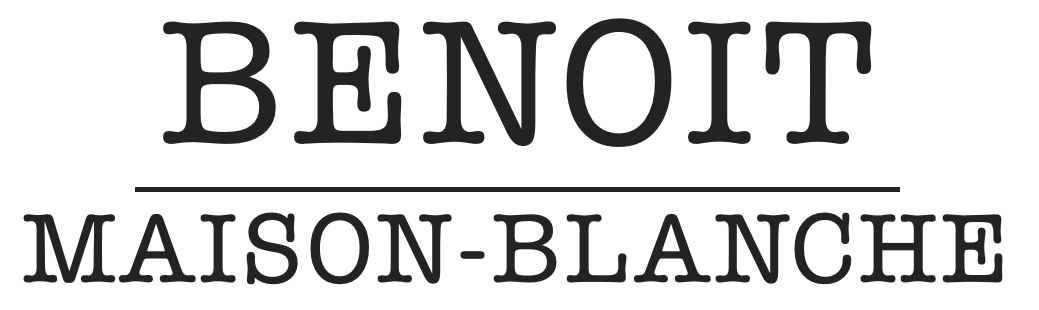
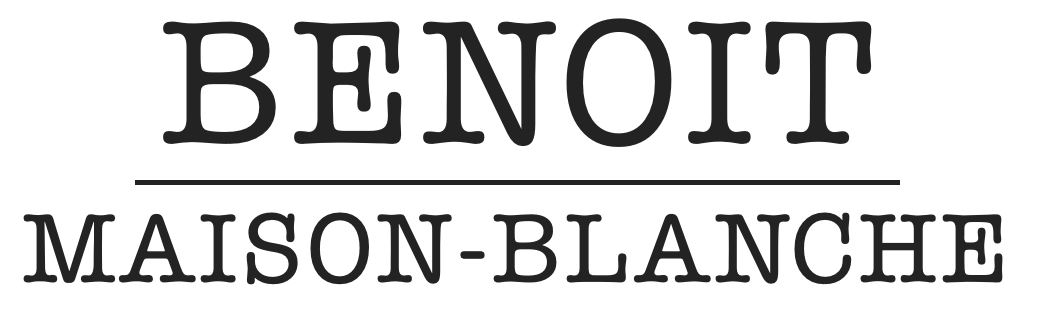
MaJ 09/01/23 - 19:55

Changed region(s): [[0.1232, 0.5806, 0.8624, 0.6387]]

diff --git a/index.html b/index.html
@@ -43,6 +43,7 @@
         </button>
         <div class="menu-logo">
             <div class="navbar-brand"><input class="input-night-button" type="checkbox" id="switch-button" onclick="dayOrNightSelector()"><label class="night-button" for="switch-button"><i class="fas fa-sun"></i><i class="fas fa-moon"></i></label>
+</div><div class="navbar-logo" style="position: absolute; top: 50%; left: 50%; margin-right: -50%; transform: translate(-50%, -50%);"><span class=""><a href="./index.html"><img src="./assets/images/Benoit-Maison-Blanche_White.png" alt="Benoit Maison-Blanche" title="Benoit Maison-Blanche" style="height: 3.8rem; display: flex; justify-content: center; align-items: center; text-align: center;"></a></span>
             
 </div>
         
